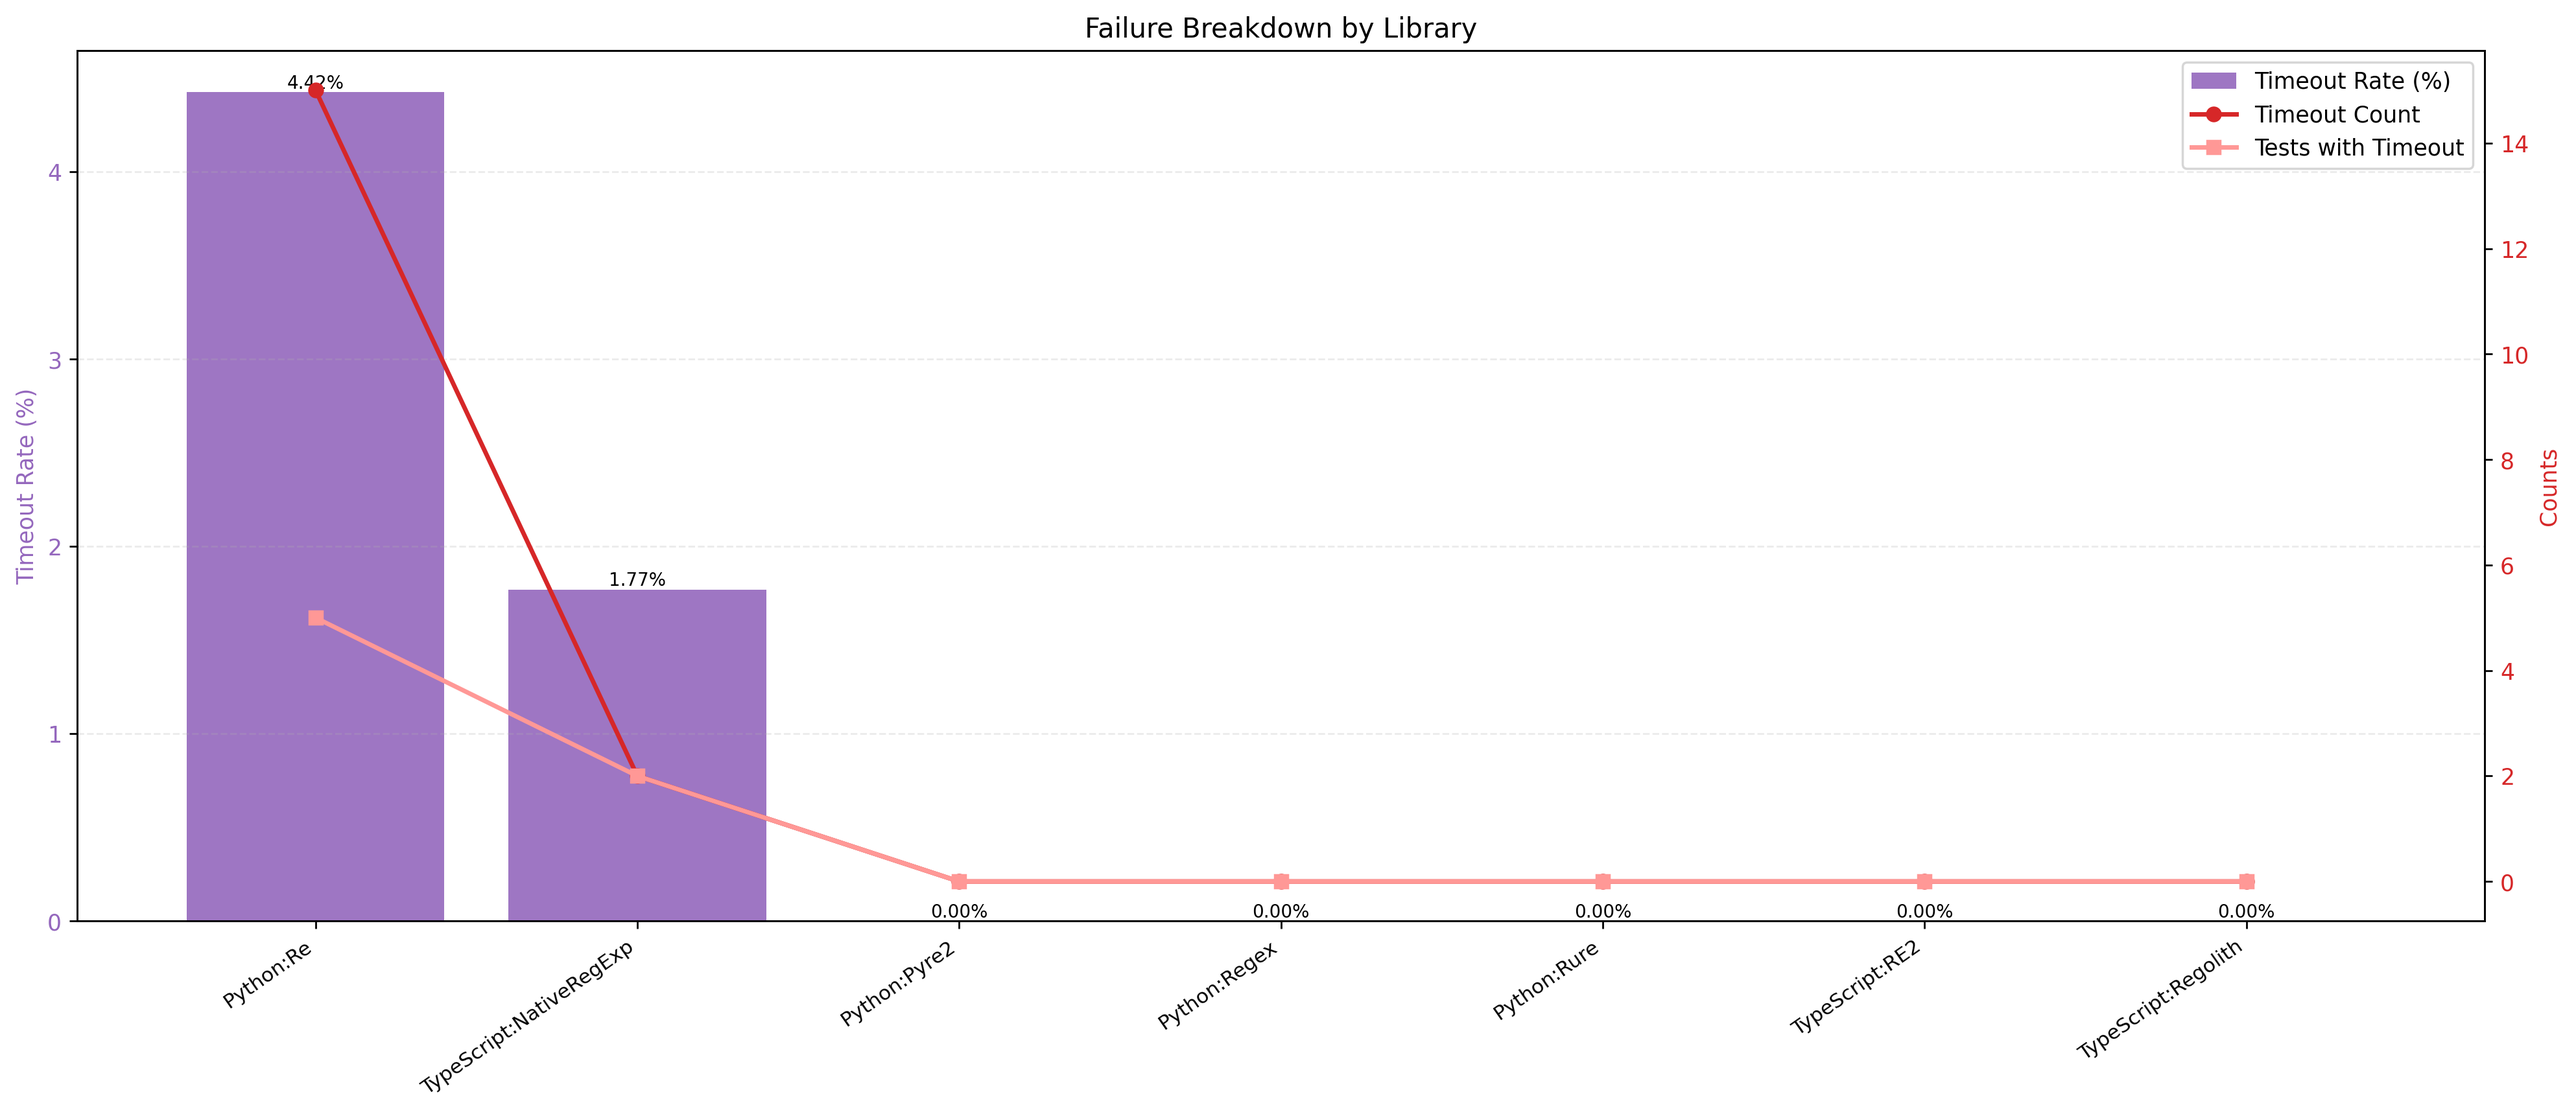
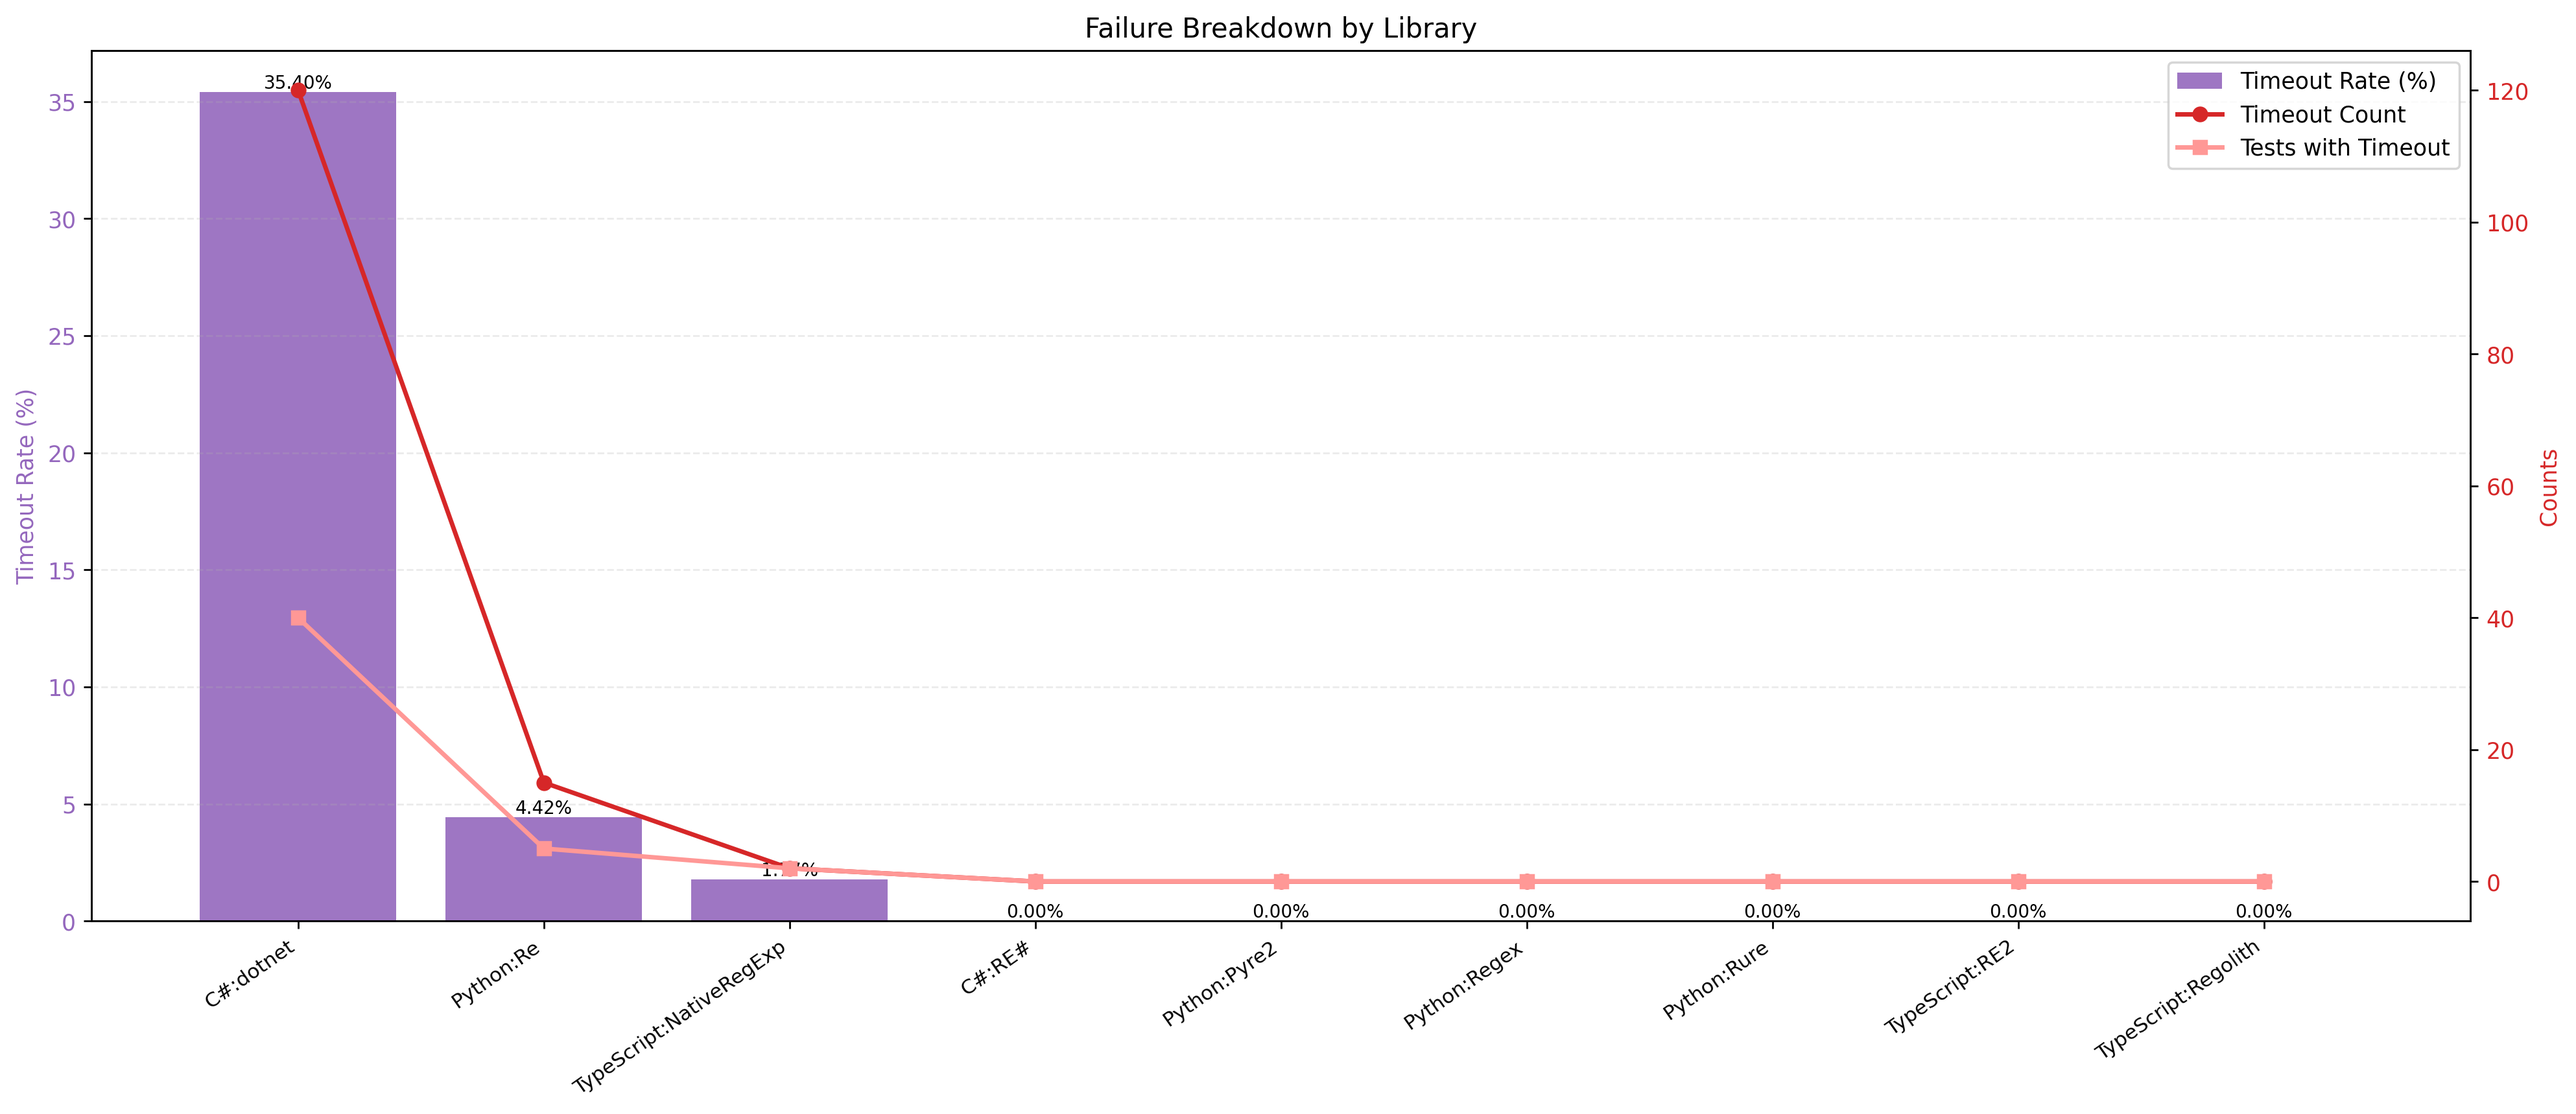
Add C#, images, and fix total in TS

diff --git a/typescript/index.ts b/typescript/index.ts
@@ -267,11 +267,9 @@ function calculateSummaryStats(
       .map((r) => r.result.time)
       .sort((a, b) => a - b);
 
-    // Count distinct tests rather than runs*tests so summaries are "out of N tests".
-    const totalCount = new Set(results.map((r) => r.test_id)).size;
-    const timeoutCount = new Set(
-      results.filter((r) => r.result.timed_out).map((r) => r.test_id),
-    ).size;
+    // Match python/main.py semantics: counts are per execution (runs * tests).
+    const totalCount = results.length;
+    const timeoutCount = results.filter((r) => r.result.timed_out).length;
     const mean =
       times.length > 0
         ? times.reduce((sum, time) => sum + time, 0) / times.length

diff --git a/results_table.py b/results_table.py
@@ -30,6 +30,12 @@ def parse_args() -> argparse.Namespace:
         help="Path to TypeScript results JSON.",
     )
     parser.add_argument(
+        "--cs",
+        type=Path,
+        default=Path("csharp_redos_test_results.json"),
+        help="Path to C# results JSON.",
+    )
+    parser.add_argument(
         "--out",
         type=Path,
         default=Path("images/results_table.png"),
@@ -198,7 +204,7 @@ def save_matplotlib_tables(
         font_size=9,
     )
 
-    fig.suptitle("Combined Results from Python + TypeScript Benchmarks", fontsize=14, fontweight="bold")
+    fig.suptitle("Combined Results from Python + TypeScript + C# Benchmarks", fontsize=14, fontweight="bold")
     output_path.parent.mkdir(parents=True, exist_ok=True)
     fig.savefig(output_path, dpi=dpi, bbox_inches="tight")
     plt.close(fig)
@@ -209,6 +215,8 @@ def dataset_color(dataset: str) -> str:
         return "#1f77b4"
     if dataset == "TypeScript":
         return "#ff7f0e"
+    if dataset == "C#":
+        return "#2ca02c"
     return "#7f7f7f"
 
 
@@ -364,6 +372,7 @@ def main() -> None:
     datasets = [
         load_dataset(args.py, "Python"),
         load_dataset(args.ts, "TypeScript"),
+        load_dataset(args.cs, "C#"),
     ]
 
     dataset_rows = [d["dataset_row"] for d in datasets]
